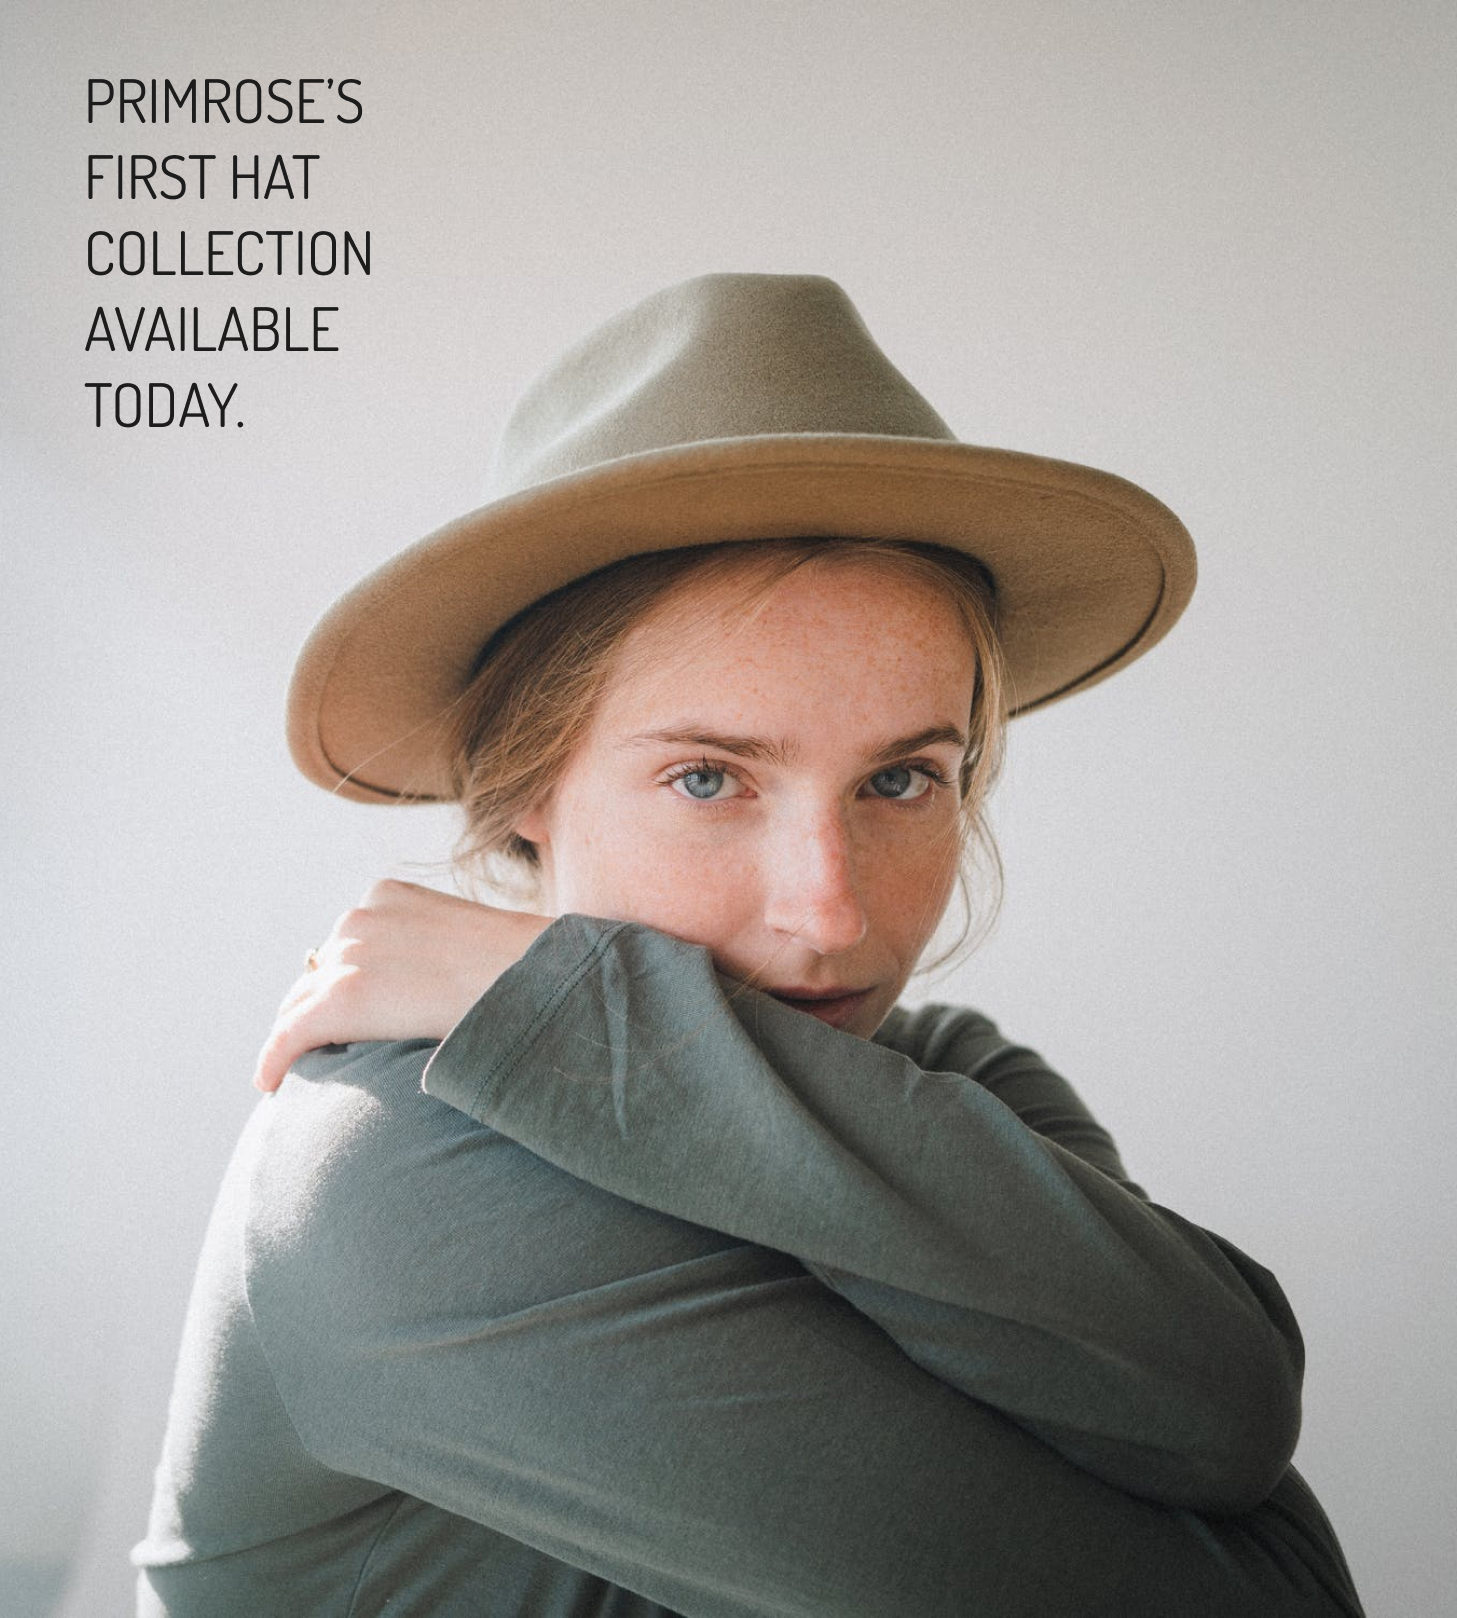
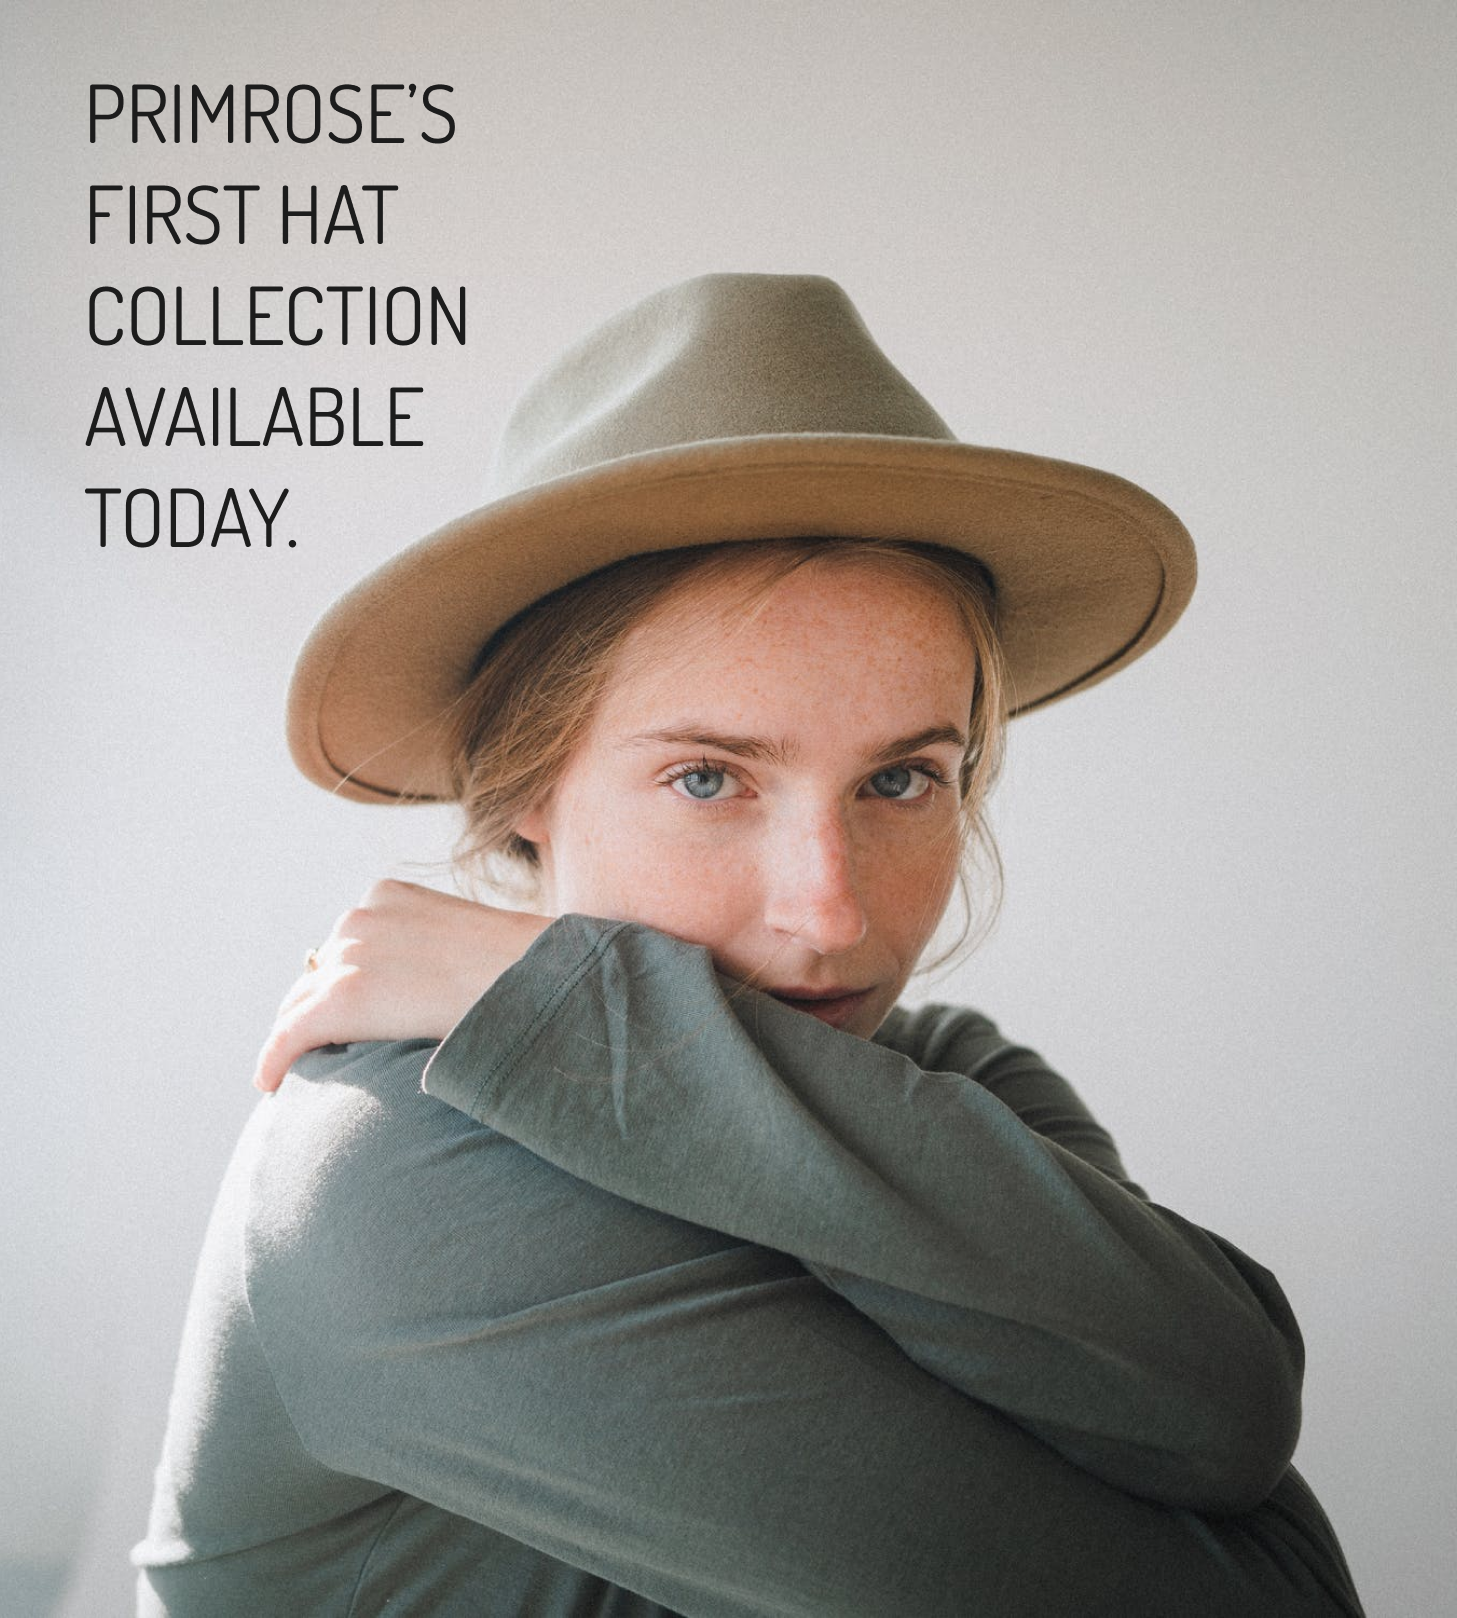
Updating Images + Fonts

Changed region(s): [[0.0618, 0.0309, 0.3397, 0.3399]]

diff --git a/frontend/src/index.css b/frontend/src/index.css
@@ -64,7 +64,7 @@ input {
 .header {
   display: flex;
   justify-content: space-between;
-  padding: 1% 1% 0 1%;
+  padding: 1% 1% 0 2%;
   transition: 0.5s;
   color: #1c1c1c;
 }
@@ -102,7 +102,7 @@ input {
 
 @media screen and (max-width: 956px) {
   .header {
-    padding: 3.5% 3.5% 0 3.5%;
+    padding: 3.5% 3.5% 0 5.5%;
   }
 
   .header__title > a {
